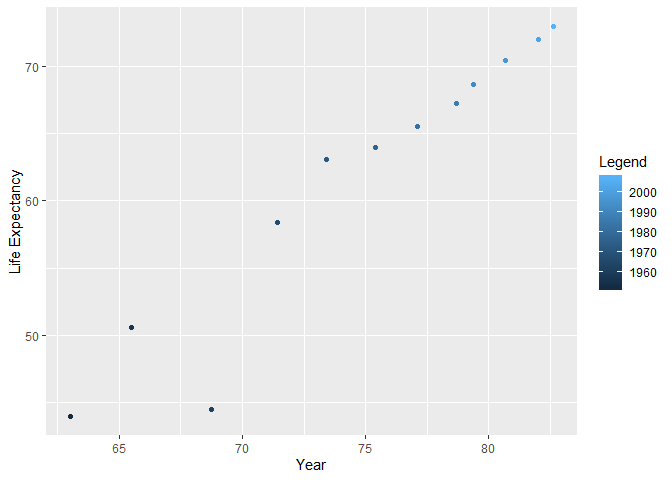
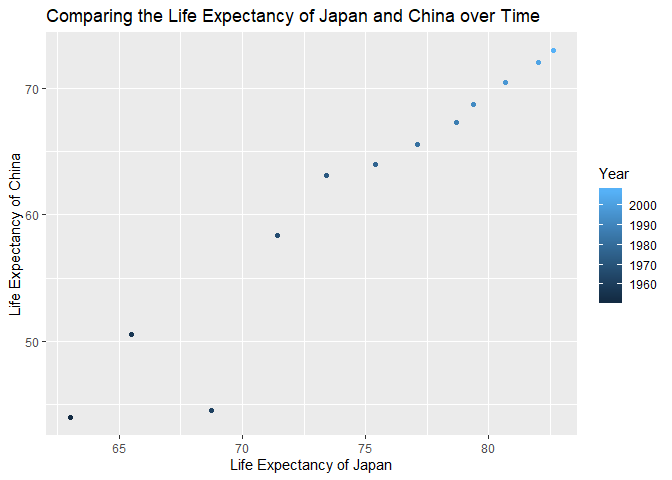
Updated the md

diff --git a/Assignment 4/hw04.md b/Assignment 4/hw04.md
@@ -5,64 +5,44 @@ Annie
 
 This assignment explores tidy data using the dataset gapminder.
 
-\#\#Univariate Option 1 Below I have made a tibble with one row per
-year, and columns for life expectancy for the Germany and China.
+**Univariate Option 1** Below I have made a tibble with one row per
+year, and columns for the life expectancy of Japan, China, and Thailand.
 
 ``` r
-gapminder_JaCh <- gapminder %>%
-  filter(country == 'Japan' | country == 'China')
-gapminder_JaCh
-```
+gapminder_JaChTh <- gapminder %>%
+  filter(country == 'Japan' | country == 'China' | country == 'Thailand')
 
-    ## # A tibble: 24 x 6
-    ##    country continent  year lifeExp        pop gdpPercap
-    ##    <fct>   <fct>     <int>   <dbl>      <int>     <dbl>
-    ##  1 China   Asia       1952    44    556263527      400.
-    ##  2 China   Asia       1957    50.5  637408000      576.
-    ##  3 China   Asia       1962    44.5  665770000      488.
-    ##  4 China   Asia       1967    58.4  754550000      613.
-    ##  5 China   Asia       1972    63.1  862030000      677.
-    ##  6 China   Asia       1977    64.0  943455000      741.
-    ##  7 China   Asia       1982    65.5 1000281000      962.
-    ##  8 China   Asia       1987    67.3 1084035000     1379.
-    ##  9 China   Asia       1992    68.7 1164970000     1656.
-    ## 10 China   Asia       1997    70.4 1230075000     2289.
-    ## # ... with 14 more rows
-
-``` r
-JaCh_wide <- gapminder_JaCh %>%
+JaChTh_wide <- gapminder_JaChTh %>%
   pivot_wider(id_cols = year, 
               names_from = country, 
               values_from = lifeExp)
-JaCh_wide
+JaChTh_wide
 ```
 
-    ## # A tibble: 12 x 3
-    ##     year China Japan
-    ##    <int> <dbl> <dbl>
-    ##  1  1952  44    63.0
-    ##  2  1957  50.5  65.5
-    ##  3  1962  44.5  68.7
-    ##  4  1967  58.4  71.4
-    ##  5  1972  63.1  73.4
-    ##  6  1977  64.0  75.4
-    ##  7  1982  65.5  77.1
-    ##  8  1987  67.3  78.7
-    ##  9  1992  68.7  79.4
-    ## 10  1997  70.4  80.7
-    ## 11  2002  72.0  82  
-    ## 12  2007  73.0  82.6
+    ## # A tibble: 12 x 4
+    ##     year China Japan Thailand
+    ##    <int> <dbl> <dbl>    <dbl>
+    ##  1  1952  44    63.0     50.8
+    ##  2  1957  50.5  65.5     53.6
+    ##  3  1962  44.5  68.7     56.1
+    ##  4  1967  58.4  71.4     58.3
+    ##  5  1972  63.1  73.4     60.4
+    ##  6  1977  64.0  75.4     62.5
+    ##  7  1982  65.5  77.1     64.6
+    ##  8  1987  67.3  78.7     66.1
+    ##  9  1992  68.7  79.4     67.3
+    ## 10  1997  70.4  80.7     67.5
+    ## 11  2002  72.0  82       68.6
+    ## 12  2007  73.0  82.6     70.6
 
-Below is a scatterplot of the life expectancy of Russia vs. China.
+Below is a scatterplot of the life expectancy of Japan vs. China.
 
 ``` r
-JaCh_wide %>%
+JaChTh_wide %>%
   ggplot(aes(Japan, China, color = year)) +
   geom_point()+
-    #geom_point(aes(y = Japan, color = "blue"))+
-    #geom_point(aes(y = China)) +
-    labs(x = "Year", y = "Life Expectancy") +
-    scale_color_continuous("Legend")
+    labs(x = "Life Expectancy of Japan", y = "Life Expectancy of China", title = "Comparing the Life Expectancy of Japan and China over Time") +
+    scale_color_continuous("Year")
 ```
 
 ![](hw04_files/figure-gfm/unnamed-chunk-2-1.png)<!-- -->
@@ -70,30 +50,30 @@ JaCh_wide %>%
 Now, I will relengthen the dataset.
 
 ``` r
-JaCh_long <- JaCh_wide %>%
+JaChTh_long <- JaChTh_wide %>%
   pivot_longer(cols = -year,
                names_to = "Country",
                values_to = "Life Expectancy")
-#For cols, I could also insert Japan:China
-JaCh_long
+#For cols, I could also insert Japan:Thailand
+JaChTh_long
 ```
 
-    ## # A tibble: 24 x 3
-    ##     year Country `Life Expectancy`
-    ##    <int> <chr>               <dbl>
-    ##  1  1952 China                44  
-    ##  2  1952 Japan                63.0
-    ##  3  1957 China                50.5
-    ##  4  1957 Japan                65.5
-    ##  5  1962 China                44.5
-    ##  6  1962 Japan                68.7
-    ##  7  1967 China                58.4
-    ##  8  1967 Japan                71.4
-    ##  9  1972 China                63.1
-    ## 10  1972 Japan                73.4
-    ## # ... with 14 more rows
+    ## # A tibble: 36 x 3
+    ##     year Country  `Life Expectancy`
+    ##    <int> <chr>                <dbl>
+    ##  1  1952 China                 44  
+    ##  2  1952 Japan                 63.0
+    ##  3  1952 Thailand              50.8
+    ##  4  1957 China                 50.5
+    ##  5  1957 Japan                 65.5
+    ##  6  1957 Thailand              53.6
+    ##  7  1962 China                 44.5
+    ##  8  1962 Japan                 68.7
+    ##  9  1962 Thailand              56.1
+    ## 10  1967 China                 58.4
+    ## # ... with 26 more rows
 
-\#\#Multivariate Option 2
+**Multivariate Option 2**
 
 Below I will compute the mean life expectancy and GDP per capita for all
 possible combinations of continent and year.
@@ -155,35 +135,18 @@ meanlifegdp_long
     ## 10  1957 Oceania       70.3  11599.
     ## # ... with 50 more rows
 
-\#\#Table Joins
+**Table Joins**
 
 For this exercise, I am going to add the appropriate email address for
-every guest.
+every guest. There are certain guests that do not have an email.
 
 ``` r
-email_new <- separate_rows(email, guest, sep=",") %>%
+email_new <- separate_rows(email, guest, sep=", ") %>%
   rename(name = guest)
-email_new
-```
 
-    ## # A tibble: 28 x 2
-    ##    name               email              
-    ##    <chr>              <chr>              
-    ##  1 Sommer Medrano     sommm@gmail.com    
-    ##  2 " Phillip Medrano" sommm@gmail.com    
-    ##  3 " Blanka Medrano"  sommm@gmail.com    
-    ##  4 " Emaan Medrano"   sommm@gmail.com    
-    ##  5 Blair Park         bpark@gmail.com    
-    ##  6 " Nigel Webb"      bpark@gmail.com    
-    ##  7 Sinead English     singlish@hotmail.ca
-    ##  8 Ayra Marks         marksa42@gmail.com 
-    ##  9 Jolene Welsh       jw1987@hotmail.com 
-    ## 10 " Hayley Booker"   jw1987@hotmail.com 
-    ## # ... with 18 more rows
-
-``` r
-guest %>% 
+guest_email <- guest %>% 
   left_join(email_new, by = "name")
+guest_email
 ```
 
     ## # A tibble: 30 x 8
@@ -202,54 +165,46 @@ guest %>%
     ## # ... with 20 more rows, and 2 more variables: attendance_golf <chr>,
     ## #   email <chr>
 
+``` r
+#If I only wanted to return guests with emails, I would use an inner join instead of a left join.
+```
+
 Below is a list of the people that we have emails for, yet are not on
 the guest list.
 
 ``` r
-email_new %>%
-  anti_join(guest, by = "name")
+email_notguest <- email_new %>%
+  anti_join(guest_email, by = "name")
+email_notguest
 ```
 
-    ## # A tibble: 16 x 2
-    ##    name                email                          
-    ##    <chr>               <chr>                          
-    ##  1 " Phillip Medrano"  sommm@gmail.com                
-    ##  2 " Blanka Medrano"   sommm@gmail.com                
-    ##  3 " Emaan Medrano"    sommm@gmail.com                
-    ##  4 " Nigel Webb"       bpark@gmail.com                
-    ##  5 " Hayley Booker"    jw1987@hotmail.com             
-    ##  6 " Erika Foley"      erikaaaaaa@gmail.com           
-    ##  7 " Martin Caldwell"  caldwellfamily5212@gmail.com   
-    ##  8 " Violet Caldwell"  caldwellfamily5212@gmail.com   
-    ##  9 " Nazifa Caldwell"  caldwellfamily5212@gmail.com   
-    ## 10 " Eric Caldwell"    caldwellfamily5212@gmail.com   
-    ## 11 " Kurtis Frost"     rosy1987b@gmail.com            
-    ## 12 " Samuel Rutledge"  humastokes@gmail.com           
-    ## 13 " Stewart Nicholls" eddison.collier@gmail.com      
-    ## 14 Turner Jones        tjjones12@hotmail.ca           
-    ## 15 Albert Marshall     themarshallfamily1234@gmail.com
-    ## 16 " Vivian Marshall"  themarshallfamily1234@gmail.com
+    ## # A tibble: 3 x 2
+    ##   name            email                          
+    ##   <chr>           <chr>                          
+    ## 1 Turner Jones    tjjones12@hotmail.ca           
+    ## 2 Albert Marshall themarshallfamily1234@gmail.com
+    ## 3 Vivian Marshall themarshallfamily1234@gmail.com
 
 This list includes everyone that we have emails for, and everyone on the
 original guest list.
 
 ``` r
-email_new %>%
-bind_rows(guest)
+email_notguest %>%
+  bind_rows(guest_email) %>%
+  select(name, email)
 ```
 
-    ## # A tibble: 58 x 8
-    ##    name  email party meal_wedding meal_brunch attendance_wedd~
-    ##    <chr> <chr> <dbl> <chr>        <chr>       <chr>           
-    ##  1 Somm~ somm~    NA <NA>         <NA>        <NA>            
-    ##  2 " Ph~ somm~    NA <NA>         <NA>        <NA>            
-    ##  3 " Bl~ somm~    NA <NA>         <NA>        <NA>            
-    ##  4 " Em~ somm~    NA <NA>         <NA>        <NA>            
-    ##  5 Blai~ bpar~    NA <NA>         <NA>        <NA>            
-    ##  6 " Ni~ bpar~    NA <NA>         <NA>        <NA>            
-    ##  7 Sine~ sing~    NA <NA>         <NA>        <NA>            
-    ##  8 Ayra~ mark~    NA <NA>         <NA>        <NA>            
-    ##  9 Jole~ jw19~    NA <NA>         <NA>        <NA>            
-    ## 10 " Ha~ jw19~    NA <NA>         <NA>        <NA>            
-    ## # ... with 48 more rows, and 2 more variables: attendance_brunch <chr>,
-    ## #   attendance_golf <chr>
+    ## # A tibble: 33 x 2
+    ##    name            email                          
+    ##    <chr>           <chr>                          
+    ##  1 Turner Jones    tjjones12@hotmail.ca           
+    ##  2 Albert Marshall themarshallfamily1234@gmail.com
+    ##  3 Vivian Marshall themarshallfamily1234@gmail.com
+    ##  4 Sommer Medrano  sommm@gmail.com                
+    ##  5 Phillip Medrano sommm@gmail.com                
+    ##  6 Blanka Medrano  sommm@gmail.com                
+    ##  7 Emaan Medrano   sommm@gmail.com                
+    ##  8 Blair Park      bpark@gmail.com                
+    ##  9 Nigel Webb      bpark@gmail.com                
+    ## 10 Sinead English  singlish@hotmail.ca            
+    ## # ... with 23 more rows
